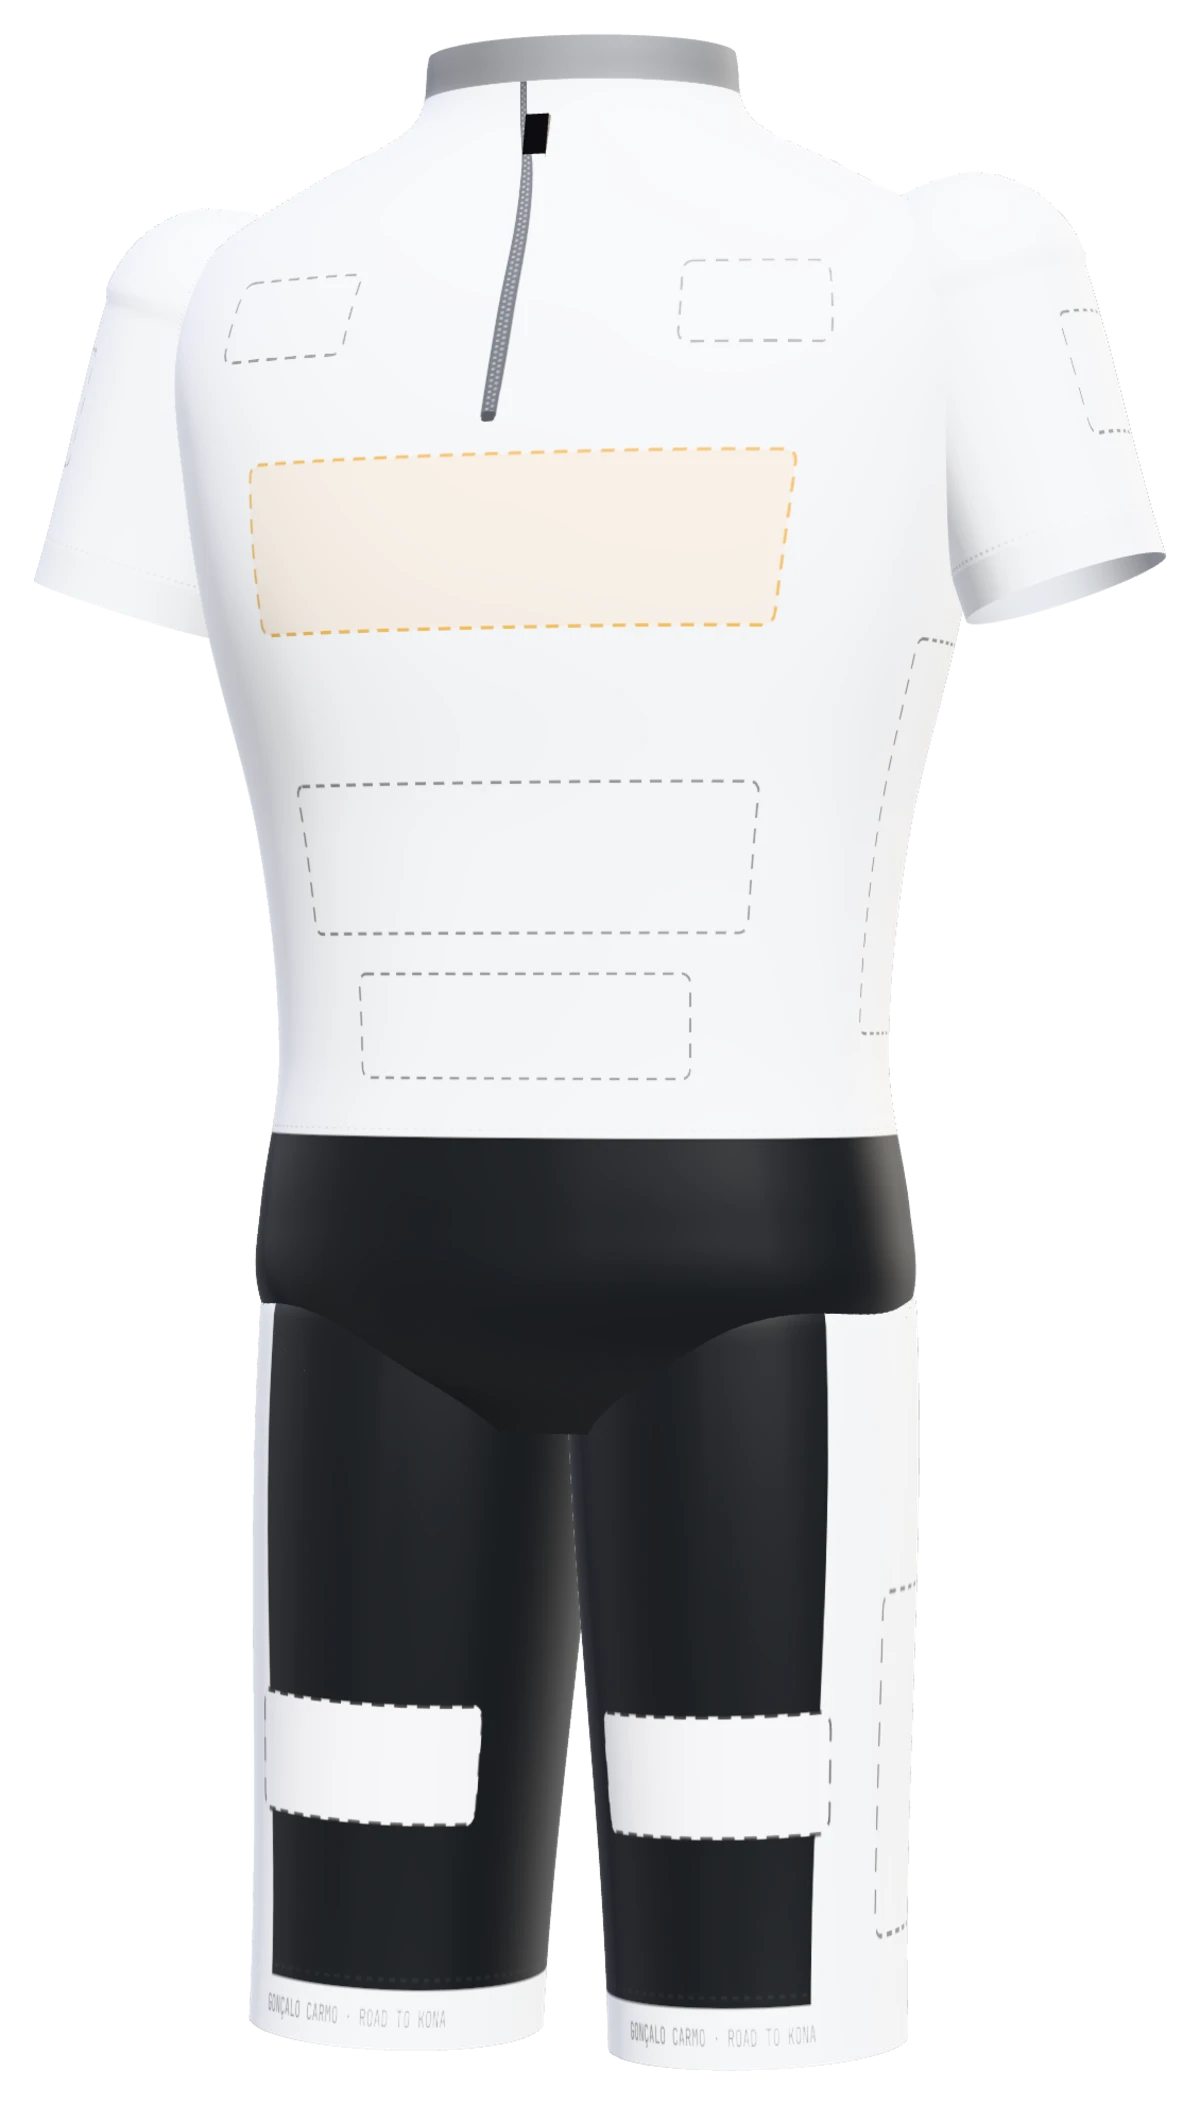
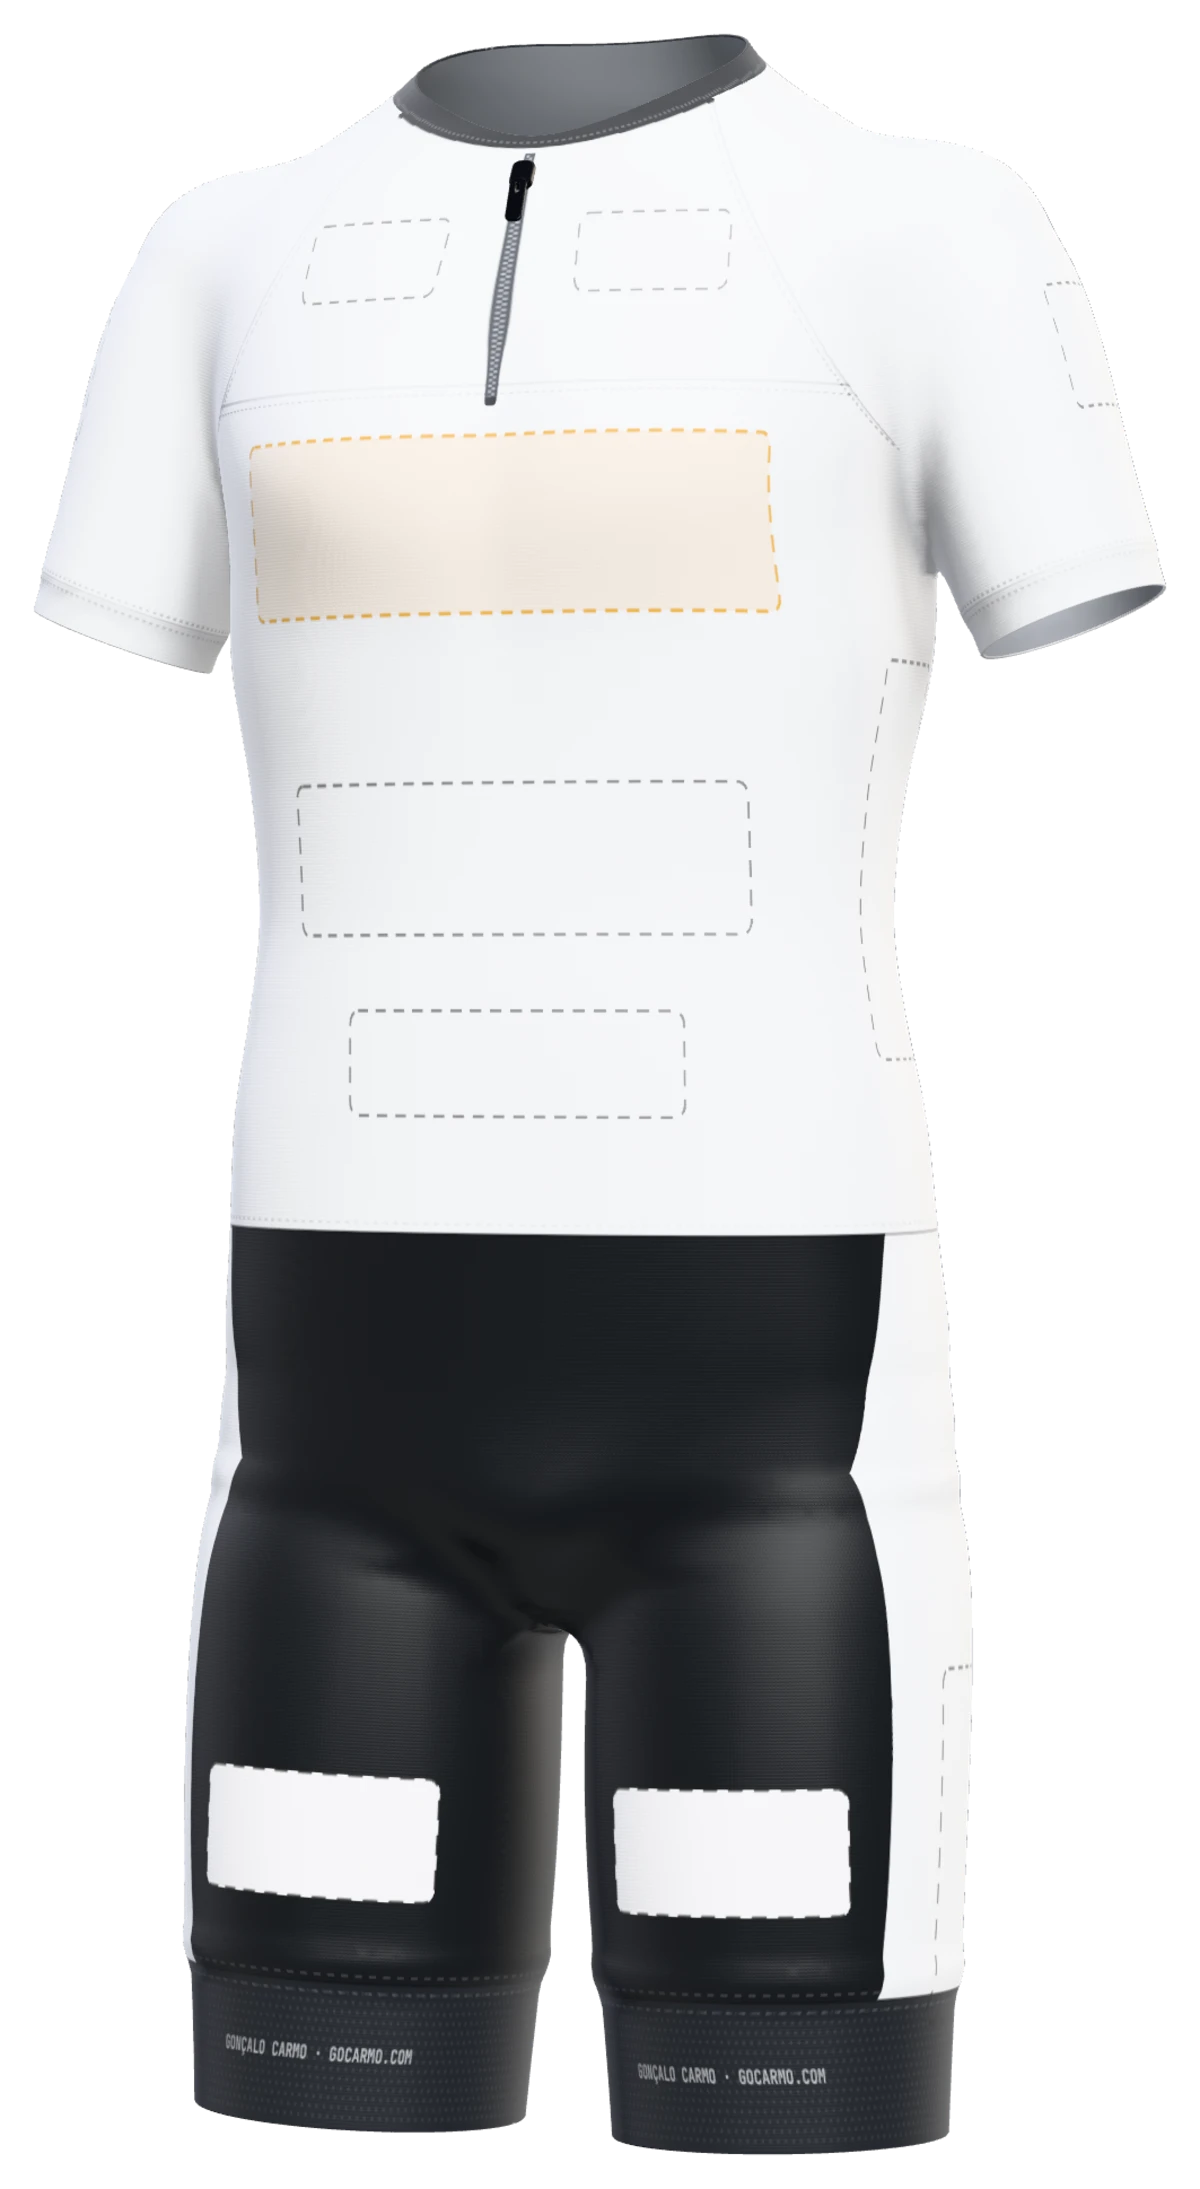
Suit: the leg grippers read GONÇALO CARMO · GOCARMO.COM
The 3D suit printed "GONÇALO CARMO · ROAD TO KONA" on both leg hems, the
last place apart from og.jpg where the old tagline named the project.
suit.js now prints "GONÇALO CARMO · GOCARMO.COM".

The suit posters (model-fato-600.png, -600.webp, -1200.webp, used by the
entry card and as the stage stand-in) are rendered again with
scripts/model-shots.mjs. The script now waits for the suit's mesh
(await suit.ready) before the still; without it the suit came out
blank. The old posters still showed the suit from before the anatomical
body, so the new ones also match the live 3D model (600 x 1094 instead
of 600 x 1052; the img boxes use object-fit: contain). The helmet
posters come out byte-identical and are unchanged.

stamp.mjs re-run (new hash for suit.js).

Claude-Session: https://claude.ai/code/session_01U6TryHJX4Q26K6Xqs1ogYW

diff --git a/admin/index.html b/admin/index.html
@@ -2,7 +2,7 @@
 <html lang="pt-PT">
 <head>
 <meta charset="utf-8">
-<meta http-equiv="Content-Security-Policy" content="default-src 'self'; script-src 'self' 'sha256-+yTs3OsqypSA1gV3fUsPaaXHUjAi516B6o1P8dpABMo='; connect-src 'self' https://api.github.com https://gocarmo.com; img-src 'self' data: blob:; style-src 'self' 'unsafe-inline' https://fonts.googleapis.com; font-src https://fonts.gstatic.com; object-src 'none'; base-uri 'none'; form-action 'none'; worker-src 'self'">
+<meta http-equiv="Content-Security-Policy" content="default-src 'self'; script-src 'self' 'sha256-0/46VL8tN6ItUAQTngOOwg1LD+3iEu8DVzqD/aLSpBs='; connect-src 'self' https://api.github.com https://gocarmo.com; img-src 'self' data: blob:; style-src 'self' 'unsafe-inline' https://fonts.googleapis.com; font-src https://fonts.gstatic.com; object-src 'none'; base-uri 'none'; form-action 'none'; worker-src 'self'">
 <meta name="viewport" content="width=device-width, initial-scale=1, viewport-fit=cover">
 <meta name="robots" content="noindex,nofollow">
 <meta name="referrer" content="no-referrer">
@@ -31,7 +31,7 @@
   "../assets/js/suit-body.js": "../assets/js/suit-body.js?v=e86b9edf",
   "../assets/js/suit-mesh.js": "../assets/js/suit-mesh.js?v=56436646",
   "../assets/js/suit-worker.js": "../assets/js/suit-worker.js?v=d04ffa75",
-  "../assets/js/suit.js": "../assets/js/suit.js?v=61b820d3"
+  "../assets/js/suit.js": "../assets/js/suit.js?v=22ccc3f9"
 } }
 </script>
 <script type="module" src="../assets/js/admin.js?v=a16130c0"></script>

diff --git a/assets/js/suit.js b/assets/js/suit.js
@@ -857,7 +857,7 @@ export class Suit extends Kit {
       this.stitch(R.x, top - 6, R.x + R.w, 'rgba(255,255,255,0.16)');
       this.stitch(R.x, top + 5, R.x + R.w, 'rgba(255,255,255,0.10)', 6);
       ctx.fillStyle = 'rgba(246,247,249,0.62)'; ctx.font = '600 12px "JetBrains Mono", ui-monospace, monospace';
-      ctx.fillText('GONÇALO CARMO · ROAD TO KONA', R.x + part.uAt(0, 0.03) * R.w, R.y + R.h * (1 - hemV * 0.5));
+      ctx.fillText('GONÇALO CARMO · GOCARMO.COM', R.x + part.uAt(0, 0.03) * R.w, R.y + R.h * (1 - hemV * 0.5));
     }
     // sleeves: a cuff band that hugs the arm, with a coverstitch
     for (const k of ['sleeveL', 'sleeveR']) {

diff --git a/index.html b/index.html
@@ -66,7 +66,7 @@
   "./assets/js/suit-body.js": "./assets/js/suit-body.js?v=e86b9edf",
   "./assets/js/suit-mesh.js": "./assets/js/suit-mesh.js?v=56436646",
   "./assets/js/suit-worker.js": "./assets/js/suit-worker.js?v=d04ffa75",
-  "./assets/js/suit.js": "./assets/js/suit.js?v=61b820d3"
+  "./assets/js/suit.js": "./assets/js/suit.js?v=22ccc3f9"
 } }
 </script>
 <script type="application/ld+json">
